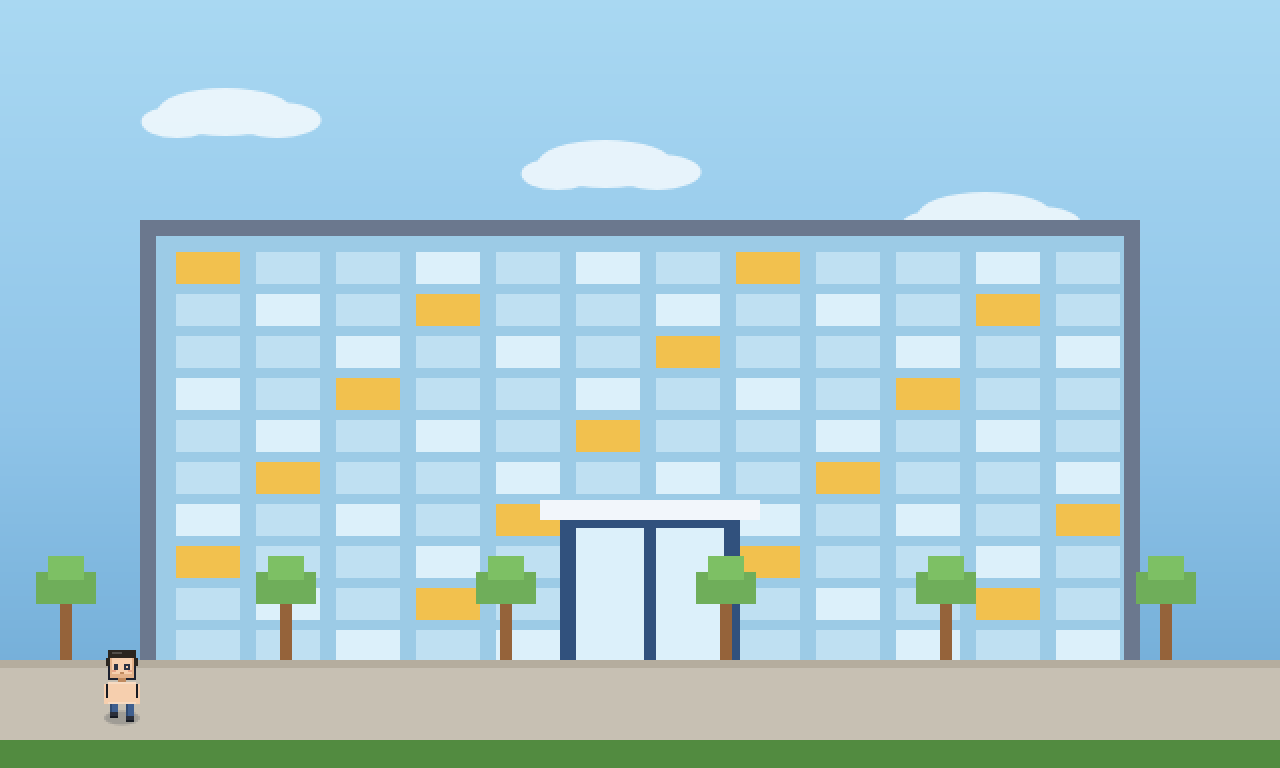
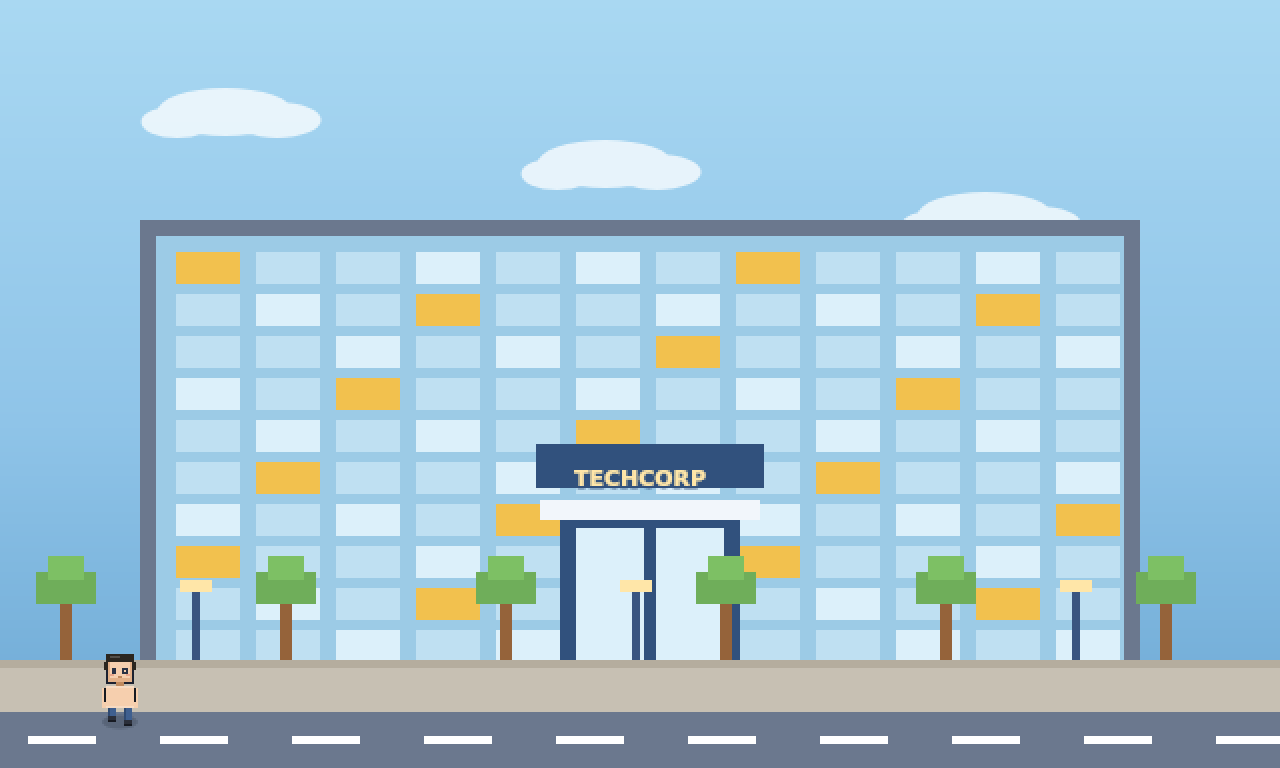
Poles visual v2: papan nama TECHCORP, trotoar & marka jalan, urutan gambar prop
- Layar judul: papan nama TECHCORP di atas pintu masuk, trotoar, marka jalan,
  dan tiang lampu sehingga komposisi tidak lagi kosong di bagian bawah.
- renderWorld: pengurutan tinggi gambar prop memakai footprint PROP_SOLID
  yang sebenarnya (bukan lagi asumsi 1x1).
- Tangkapan layar portal diperbarui (aset dari npm run tangkapan).
- Uji alpha otomatis tetap 85/85 lulus.

diff --git a/career-quest/js/game.js b/career-quest/js/game.js
@@ -11,7 +11,7 @@
 
 import {
   TILE, VIEW_W, VIEW_H, PAL, CHAR_W, CHAR_H,
-  drawTile, drawProp, drawChar, drawMarker, drawSparkle, drawStar, drawText, px
+  drawTile, drawProp, drawChar, drawMarker, drawSparkle, drawStar, drawText, px, PROP_SOLID
 } from './art.js';
 import {
   PROFESSIONS, PROF_MAP, LEVELS, LEVEL_MAP, ECONOMY, PAYSLIPS, SHOP_ITEMS,
@@ -467,7 +467,8 @@ export class Game {
     /* daftar objek, diurutkan berdasarkan sumbu Y (semakin bawah semakin akhir) */
     const list = [];
     (map.props || []).forEach((p, idx) => {
-      const size = { w: 1, h: 1 };
+      /* ukuran footprint sebenarnya dipakai untuk mengurutkan tinggi gambar */
+      const size = PROP_SOLID[p.k] || { w: 1, h: 1 };
       list.push({
         y: (p.y + (size.h || 1)) * TILE, order: p.y * 1000 + p.x + idx * 0.001,
         fn: () => drawProp(ctx, p.k, p.x * TILE, p.y * TILE, this.time)
@@ -578,13 +579,30 @@ export class Game {
     ctx.fillStyle = PAL.off;
     ctx.fillRect(270, groundY - 80, 110, 10);
 
-    /* trotoar & taman */
+    /* papan nama perusahaan di atas pintu masuk */
+    ctx.fillStyle = PAL.navy3;
+    ctx.fillRect(268, groundY - 108, 114, 22);
+    drawText(ctx, 'TECHCORP', VIEW_W / 2, groundY - 96, {
+      size: 11, color: PAL.gold3, align: 'center', outlineColor: PAL.navy3, outlineWidth: 3
+    });
+
+    /* jalan, marka, dan trotoar */
+    ctx.fillStyle = PAL.gray2;
+    ctx.fillRect(0, groundY + 26, VIEW_W, 28);
+    ctx.fillStyle = PAL.white;
+    for (let i = 0; i < 10; i++) ctx.fillRect(14 + i * 66, groundY + 38, 34, 4);
     ctx.fillStyle = PAL.floor2;
-    ctx.fillRect(0, groundY, VIEW_W, 54);
+    ctx.fillRect(0, groundY, VIEW_W, 26);
     ctx.fillStyle = PAL.floorLine;
     ctx.fillRect(0, groundY, VIEW_W, 4);
     ctx.fillStyle = PAL.green2;
-    ctx.fillRect(0, groundY + 40, VIEW_W, 14);
+    ctx.fillRect(0, groundY + 58, VIEW_W, 8);
+    /* tiang lampu */
+    for (let i = 0; i < 3; i++) {
+      const lx = 96 + i * 220;
+      px(ctx, lx, groundY - 34, 4, 34, PAL.iron2);
+      px(ctx, lx - 6, groundY - 40, 16, 6, PAL.gold3);
+    }
     for (let i = 0; i < 6; i++) {
       const bx = 30 + i * 110;
       px(ctx, bx, groundY - 30, 6, 30, PAL.wood3);
@@ -595,7 +613,7 @@ export class Game {
     /* karakter pemain berjalan di depan gedung */
     const pcfg = profileToChar(this.state.profile);
     const walkX = 40 + ((t * 26) % (VIEW_W - 60));
-    drawChar(ctx, pcfg, Math.round(walkX), groundY - 6, { dir: 'right', moving: true, step: Math.floor(t * 7) % 4 });
+    drawChar(ctx, pcfg, Math.round(walkX), groundY - 4, { dir: 'right', moving: true, step: Math.floor(t * 7) % 4 });
   }
 
   /* ------------------------ DIALOG & PESAN ----------------------------- */
